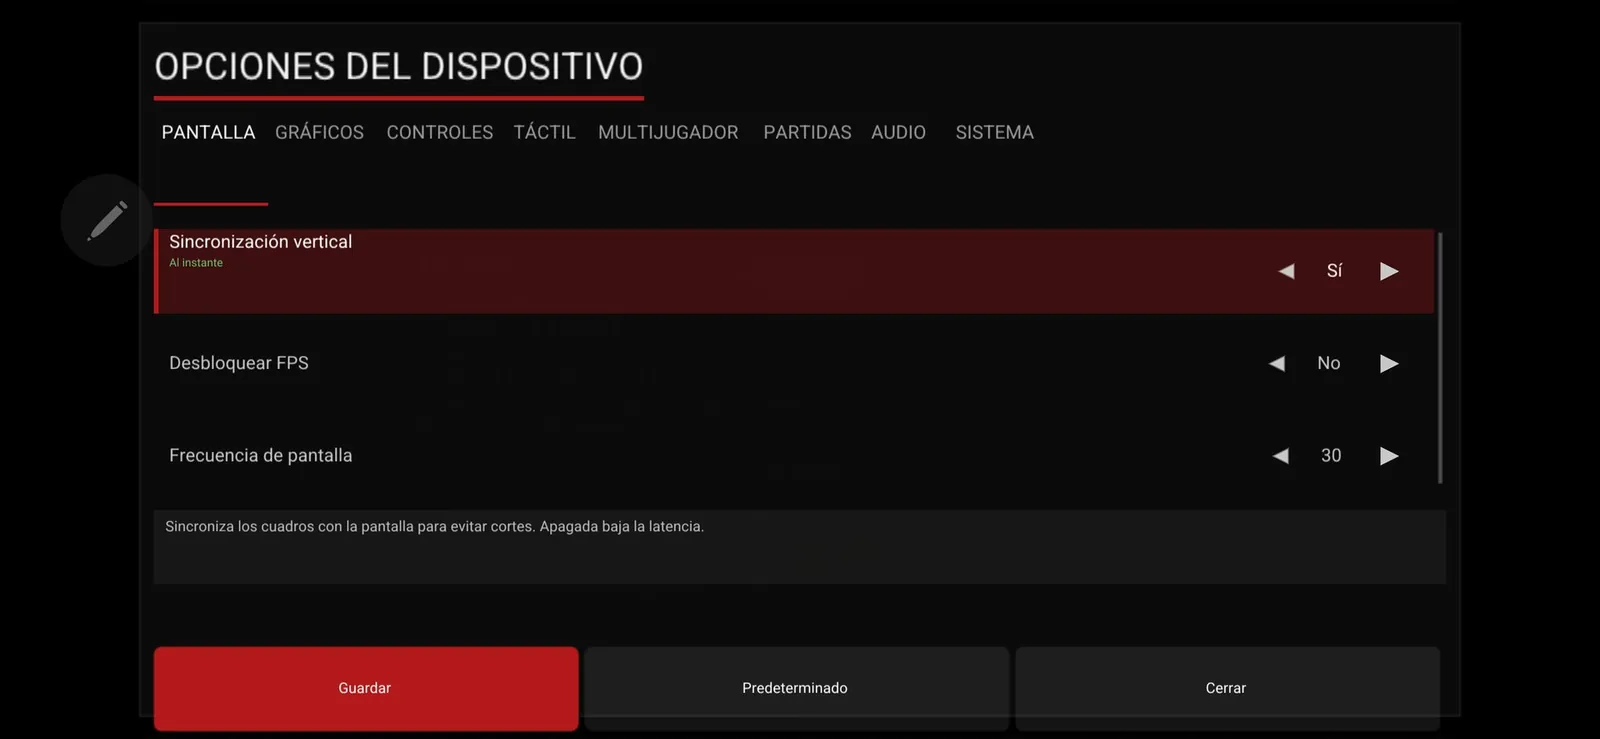
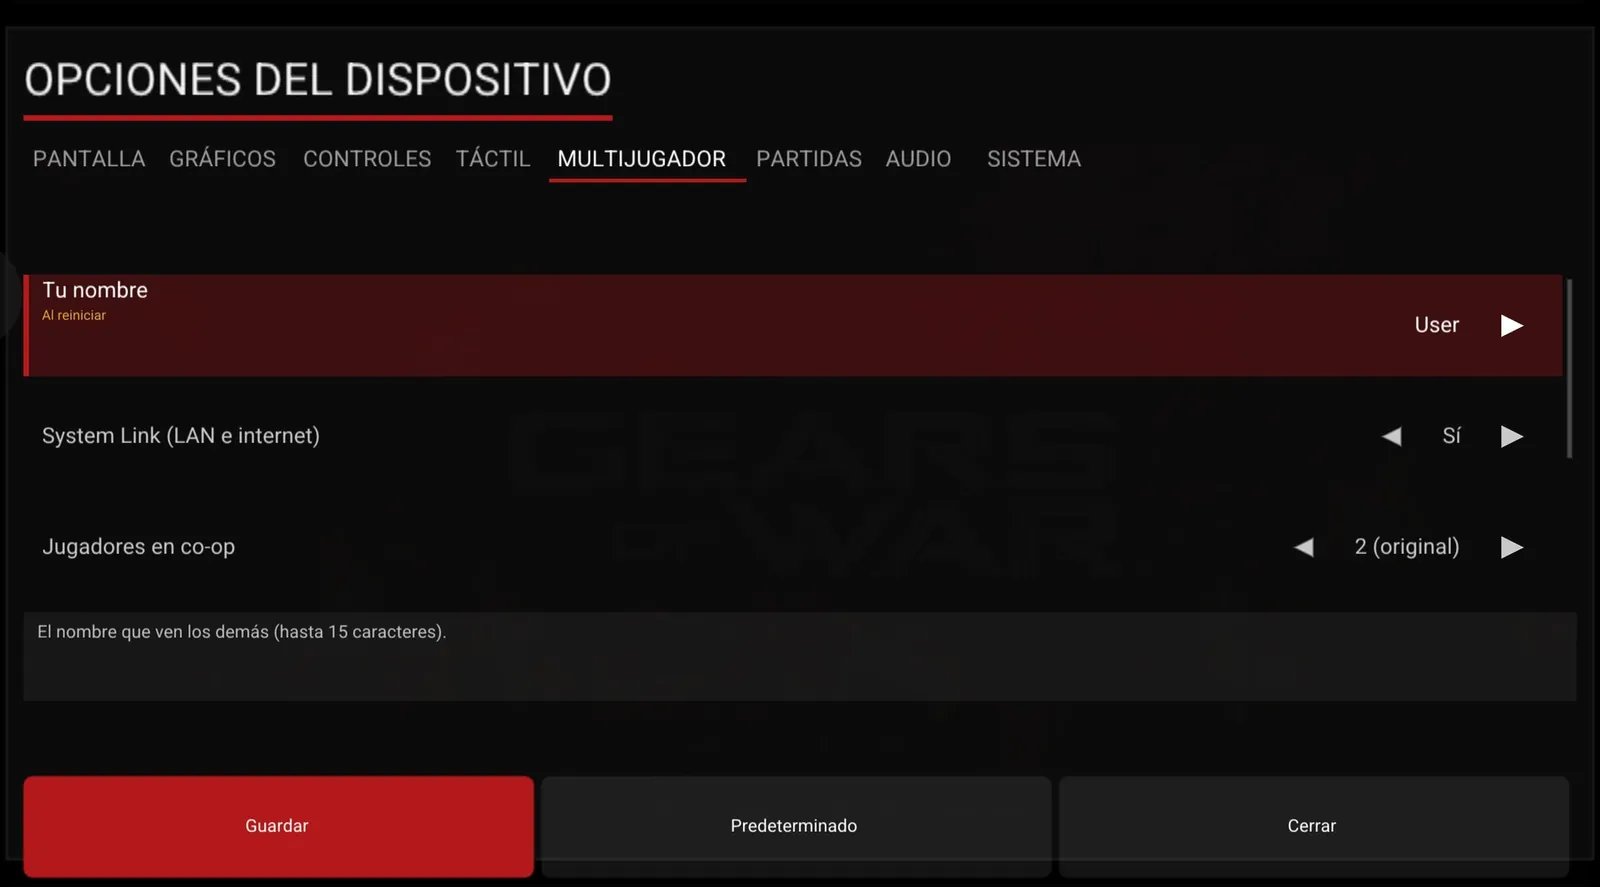
docs(site): final Android screenshot of Device Options

diff --git a/docs/es/index.html b/docs/es/index.html
@@ -542,8 +542,8 @@
                   <img src="../assets/img/device-options-800.webp"
                     srcset="../assets/img/device-options-800.webp 800w, ../assets/img/device-options-1600.webp 1600w"
                     sizes="(min-width: 901px) 26rem, 100vw"
-                    width="800" height="369" loading="lazy" decoding="async"
-                    alt="El menú de Opciones del dispositivo del port en Android, con la pestaña de pantalla y filas para la sincronización vertical, el desbloqueo de FPS y la frecuencia de pantalla">
+                    width="800" height="444" loading="lazy" decoding="async"
+                    alt="El menú de Opciones del dispositivo del port en Android, con la pestaña de multijugador y filas para el nombre, System Link y el número de jugadores en co-op">
                 </a>
                 <figcaption>Opciones del dispositivo en Android: el mismo menú, manejado por táctil.</figcaption>
               </figure>

diff --git a/docs/index.html b/docs/index.html
@@ -542,8 +542,8 @@
                   <img src="assets/img/device-options-800.webp"
                     srcset="assets/img/device-options-800.webp 800w, assets/img/device-options-1600.webp 1600w"
                     sizes="(min-width: 901px) 26rem, 100vw"
-                    width="800" height="369" loading="lazy" decoding="async"
-                    alt="The port's Device Options menu on Android, showing the Display tab with rows for VSync, the frame-rate unlock and the display refresh rate">
+                    width="800" height="444" loading="lazy" decoding="async"
+                    alt="The port's Device Options menu on Android, showing the Multiplayer tab with rows for the player name, System Link and the co-op player count">
                 </a>
                 <figcaption>Device Options on Android: the same menu, driven by touch.</figcaption>
               </figure>
